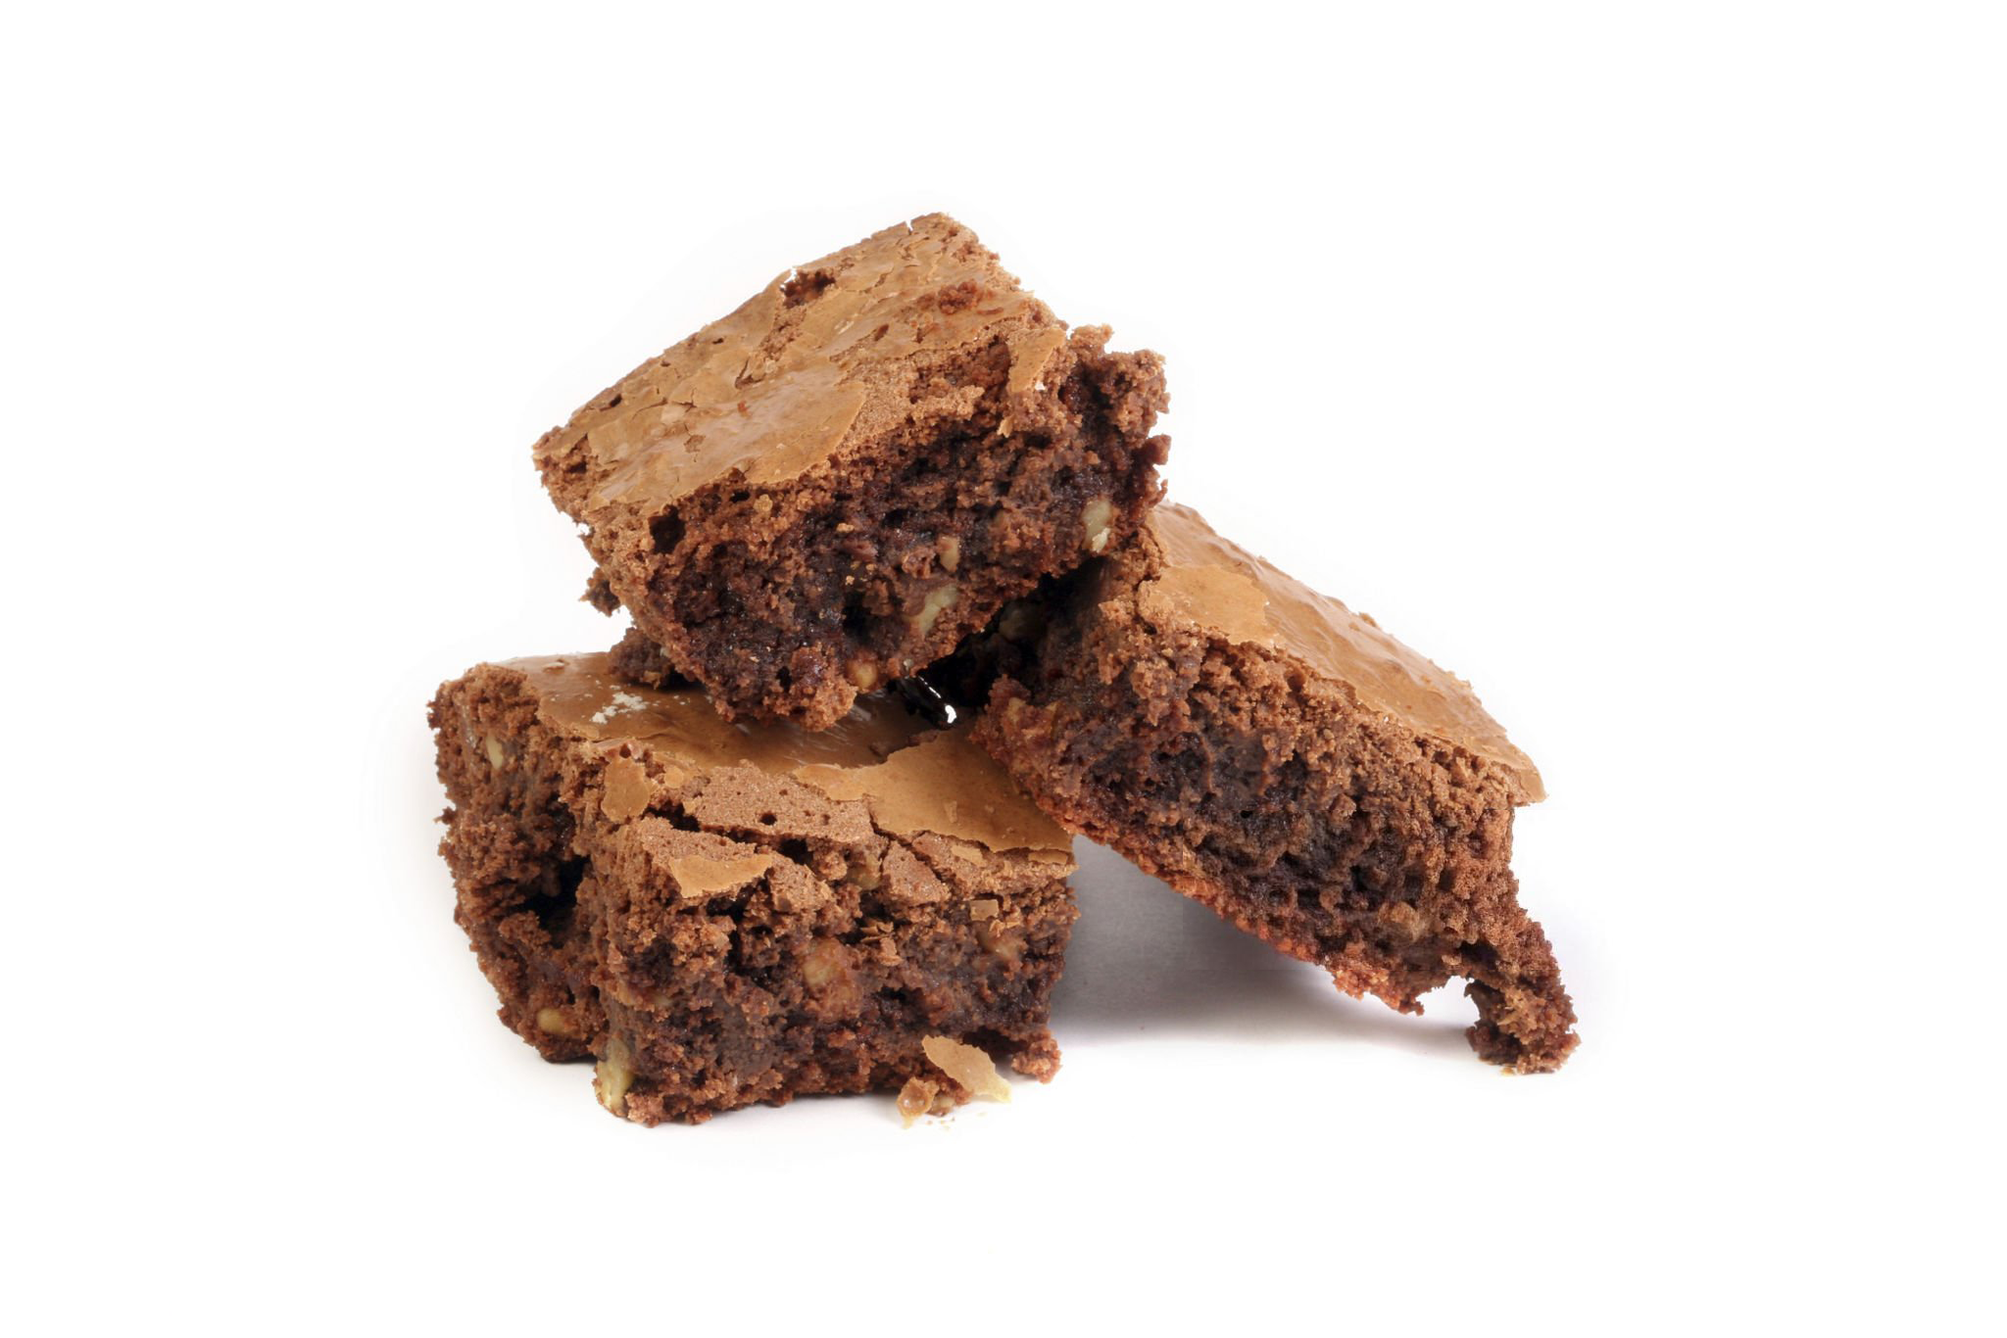
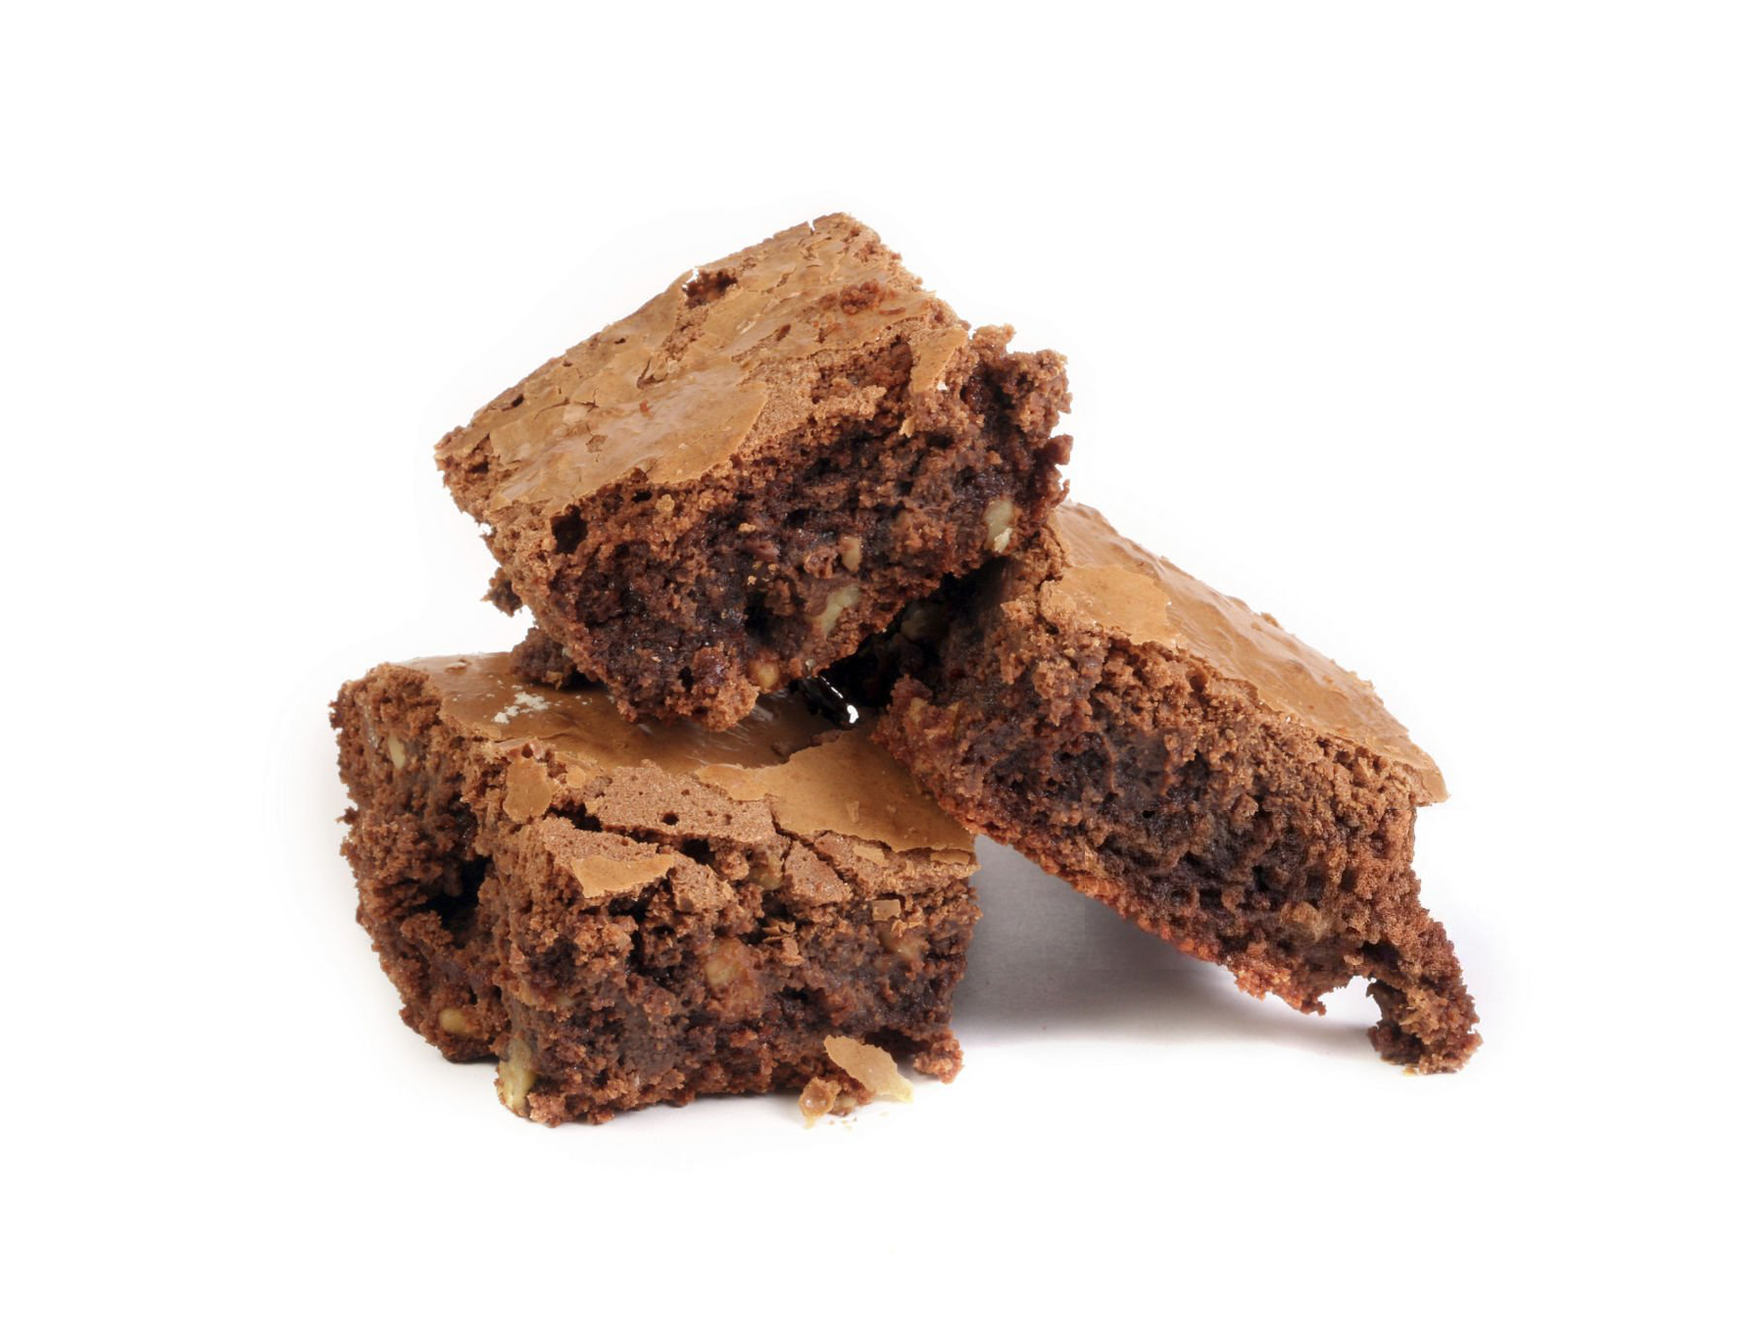
Updated  files

Changed region(s): [[0.1867, 0.1537, 0.84, 0.8609]]

diff --git a/brownies.html b/brownies.html
@@ -6,13 +6,13 @@
       <meta charset="utf-8" />
       <meta content="width=device-width, initial-scale=1.0" name="viewport" />
       <title>Brownies | Bumonii's Baking &amp; Chocolates</title>
-      <meta content="Rich chocolate brownies with fudgy centres, glossy tops and premium handmade finish for gifting, events and dessert counters. Contact Bumoniis on WhatsApp for details and pricing."
+      <meta content="Delicious, moist brownies with rich chocolate flavour and a fudgy centre. Contact Bumoniis on WhatsApp for details and pricing."
             name="description" />
       <meta content="Brownies — Bumoniis Baking &amp; Chocolates" property="og:title" />
-      <meta content="Rich chocolate brownies with fudgy centres, glossy tops and premium handmade finish for gifting, events and dessert counters."
+      <meta content="Delicious, moist brownies with rich chocolate flavour and a fudgy centre."
             property="og:description" />
       <meta content="website" property="og:type" />
-      <meta content="https://images.unsplash.com/photo-1606313564200-e75d5e30476c?q=80&amp;w=1800&amp;auto=format&amp;fit=crop"
+      <meta content="https://images.unsplash.com/photo-1569864358642-9d1684040f43?q=80&amp;w=1800&amp;auto=format&amp;fit=crop"
             property="og:image" />
       <link href="style.css" rel="stylesheet" />
       <link href="https://fonts.googleapis.com" rel="preconnect" />
@@ -290,7 +290,7 @@
                         <div class="types-grid" id="types">
                               <article class="type-card">
                                     <img alt="Brownies" class="brownies-fit-image" decoding="async" loading="eager"
-                                          src="sujjth/final pics/inside ppics/classic brownies.png" />
+                                          src="sujjth/final pics/classic browines.png" />
                                     <div class="type-card-body">
                                           <h3>Classic Brownies</h3>
                                           <p>Classic brownies are soft and moist, delivering a deep chocolate flavour
@@ -414,12 +414,12 @@
                         </div>
                         <div class="footer-contact-block">
                                 <h3>Contact Us</h3>
-                                <p>Ullaaya Brothers Foods Pvt Ltd No.345, 1st cross, 4th Main, Indiranagar,
+                                <h4>Ullaaya Brothers Foods Pvt Ltd No.345, 1st cross, 4th Main, Indiranagar,
                                         Bangalore–560075
-                                </p>
-                                <a class="footer-phone" href="tel:080-42046781"><p>📞-080-42046781,+91-9886916067</p></a>
+                                </h4>
+                                <a class="footer-phone" href="tel:080-42046781"><h4>📞080-42046781,+91-9886916067<h4></a>
                                <a href="mailto:contact@ullaayafoods.com">
-                             <i class="fa-solid fa-envelope"></i>  -  contact@ullaaya.com
+                             <i class="fa-solid fa-envelope"></i>   contact@ullaaya.com
 </a>
                         </div>
                 </div>

diff --git a/style.css b/style.css
@@ -497,7 +497,7 @@ ul {
 
 .section-header {
   max-width: 800px;
-  margin: 0 auto 0.30rem;
+  margin: 0 auto;
   text-align: center;
 }
 
@@ -506,6 +506,7 @@ ul {
   font-family: var(--font-heading);
   font-size: clamp(1.5rem, 3vw, 1.5rem);
   line-height: 1.30;
+  margin-bottom: 5px;
 }
 
 .section-subtitle {
@@ -1591,6 +1592,7 @@ ul {
   justify-content: flex-start !important;
   align-items: flex-start !important;
   margin: 0 0 8px 0 !important;
+  margin-left: 26px !important;
 }
 
 .footer-logo-left img {
@@ -2685,10 +2687,9 @@ main p,
 }
 
 .center{
-  font-size: 1.27rem!important;
-  line-height: 1.4!important;
+  font-size: 1.1rem!important;
+  line-height: 1.10!important;
   text-align: center !important;
-  margin: 15px auto !important;
 }
 body p,
 .section-subtitle,
@@ -2701,8 +2702,9 @@ body p,
 .footer-brand-block p,
 .business-card-content p,
 .other-business-card p {
-  font-size: 1.21rem !important;
+  font-size: 1.28rem !important;
   line-height: 1.5 !important;
+  margin-bottom: 1.2rem !important;
 }
 
 .business-card-content p,
@@ -3107,21 +3109,31 @@ nav[aria-label="Breadcrumb"] {
   .footer-contact-block a,
   .footer-phone,
   .footer-wa {
-    font-size: 0.95rem !important;
+    font-size: 1.07rem !important;
     line-height: 1.6 !important;
   }
 }
 
 /* === FINAL FOOTER COLOR + BUSINESS BUTTON ALIGNMENT FIX === */
-.site-footer .footer-brand-title,
+.site-footer .footer-brand-title{
+    color: #4b2208 !important;
+  font-family: var(--font-ui) !important;
+  font-size: 1.1rem !important;
+  font-weight: 800 !important;
+  letter-spacing: 0.03em !important;
+  text-transform: none !important;
+  margin-left: 30px !important;
+}
+
 .site-footer .footer-link-block h3,
 .site-footer .footer-contact-block h3 {
   color: #4b2208 !important;
   font-family: var(--font-ui) !important;
-  font-size: 1.10rem !important;
+  font-size: 1.1rem !important;
   font-weight: 800 !important;
-  letter-spacing: 0.06em !important;
+  letter-spacing: 0.03em !important;
   text-transform: none !important;
+  
 }
 
 .site-footer .footer-link-block a,
@@ -3854,6 +3866,8 @@ nav[aria-label="Breadcrumb"] {
 .other-business-card.osuns-card .business-card-content .business-link,
 .other-business-card.sarvathaa-card .business-card-content .business-link {
   text-align: justify !important;
+  hyphens: auto !important;
+  overflow-wrap: break-word !important;
 }
 
 /* =========================================================
@@ -4372,7 +4386,7 @@ nav[aria-label="Breadcrumb"] {
    ========================================================= */
 .types-grid .type-card-body p,
 .chocolate-subproducts-page .types-grid .type-card-body p {
-  font-size: 1.00rem !important;
+  font-size: 1.10rem !important;
   line-height: 1.58 !important;
 }
 
@@ -4809,7 +4823,7 @@ nav[aria-label="Breadcrumb"] {
 #hero p {
   max-width: 400px !important;
   margin: 17px 0 24px !important;
-  font-size: .98rem !important;
+  font-size: 1.10rem !important;
   line-height: 1.68 !important;
 }
 #hero .hero-actions .btn {

diff --git a/index.html b/index.html
@@ -514,7 +514,7 @@
                                                          <h3>Osuns's</h3>
                                                         <p>
                                                                 Every successful business begins with the right
-                                                                guidance. With expertguidance strategic planning setup to training operations growth and ongoing support. we help entrepreneurs build businesses with
+                                                                guidance. With expert guidance strategic planning setup to training operations growth and ongoing support. we help entrepreneurs build businesses with
                                                                 confidence and lasting success.
                                                         </p>
                                                         <a class="business-link" href="https://www.osunss.com"
@@ -572,14 +572,15 @@
                                         <li><a href="desserts.html">Desserts</a></li>
                                 </ul>
                         </div>
-                        <div class="footer-contact-block">
+                         <div class="footer-contact-block">
                                 <h3>Contact Us</h3>
-                                <p>Ullaaya Brothers Foods Pvt Ltd No.345, 1st cross, 4th Main, Indiranagar,
+                                <h4>Ullaaya Brothers Foods Pvt Ltd No.345, 1st cross, 4th Main, Indiranagar,
                                         Bangalore–560075
-                                </p>
-                                <a class="footer-phone" href="tel:080-42046781"><p>📞-080-42046781,+91-9886916067</p></a>
-                               <a href="mailto:contact@ullaayafoods.com">
-                             <i class="fa-solid fa-envelope"></i>  -  contact@ullaaya.com
+                                </h4>
+                                <a class="footer-phone" href="tel:080-42046781"><h4>📞080-42046781,+91-9886916067</h4></a>
+                               
+                                <a href="mailto:contact@ullaayafoods.com">
+                             <i class="fa-solid fa-envelope"></i>    contact@ullaaya.com
 </a>
                         </div>
                 </div>

diff --git a/cookies.html b/cookies.html
@@ -286,7 +286,7 @@
                              
                             <span class="eyebrow" class="section-title">Cookies</span>
                         </div><p class="center">
-                                              Perfected in France, macarons are delicate almond meringue cookies with smooth, flavorful fillings, celebrated for their light texture and elegant presentation.
+                                             Believed to have originated in 7th-century Persia, cookies are one of the world's oldest baked treats, cherished for their delightful texture, rich flavors, and timeless appeal.
                                         </p>
                         </div>
                         <div class="types-grid" id="types">
@@ -424,14 +424,14 @@
                                         <li><a href="desserts.html">Desserts</a></li>
                                 </ul>
                         </div>
-                        <div class="footer-contact-block">
+                         <div class="footer-contact-block">
                                 <h3>Contact Us</h3>
-                                <p>Ullaaya Brothers Foods Pvt Ltd No.345, 1st cross, 4th Main, Indiranagar,
+                                <h4>Ullaaya Brothers Foods Pvt Ltd No.345, 1st cross, 4th Main, Indiranagar,
                                         Bangalore–560075
-                                </p>
-                                <a class="footer-phone" href="tel:080-42046781"><p>📞-080-42046781,+91-9886916067</p></a>
+                                </h4>
+                                <a class="footer-phone" href="tel:080-42046781"><h4>📞080-42046781,+91-9886916067</h4></a>
                                <a href="mailto:contact@ullaayafoods.com">
-                             <i class="fa-solid fa-envelope"></i>  -  contact@ullaaya.com
+                             <i class="fa-solid fa-envelope"></i>   contact@ullaaya.com
 </a>
                         </div>
                 </div>

diff --git a/cakes.html b/cakes.html
@@ -444,14 +444,14 @@
                                         <li><a href="desserts.html">Desserts</a></li>
                                 </ul>
                         </div>
-                        <div class="footer-contact-block">
+                         <div class="footer-contact-block">
                                 <h3>Contact Us</h3>
-                                <p>Ullaaya Brothers Foods Pvt Ltd No.345, 1st cross, 4th Main, Indiranagar,
+                                <h4>Ullaaya Brothers Foods Pvt Ltd No.345, 1st cross, 4th Main, Indiranagar,
                                         Bangalore–560075
-                                </p>
-                                <a class="footer-phone" href="tel:080-42046781"><p>📞-080-42046781,+91-9886916067</p></a>
+                                </h4>
+                                <a class="footer-phone" href="tel:080-42046781"><h4>📞080-42046781,+91-9886916067</h4></a>
                                <a href="mailto:contact@ullaayafoods.com">
-                             <i class="fa-solid fa-envelope"></i>  -  contact@ullaaya.com
+                             <i class="fa-solid fa-envelope"></i>   contact@ullaaya.com
 </a>
                         </div>
                 </div>

diff --git a/choconut-filled-bars.html b/choconut-filled-bars.html
@@ -424,14 +424,14 @@
                                         <li><a href="desserts.html">Desserts</a></li>
                                 </ul>
                         </div>
-                        <div class="footer-contact-block">
+                         <div class="footer-contact-block">
                                 <h3>Contact Us</h3>
-                                <p>Ullaaya Brothers Foods Pvt Ltd No.345, 1st cross, 4th Main, Indiranagar,
+                                <h4>Ullaaya Brothers Foods Pvt Ltd No.345, 1st cross, 4th Main, Indiranagar,
                                         Bangalore–560075
-                                </p>
-                                <a class="footer-phone" href="tel:080-42046781"><p>📞-080-42046781,+91-9886916067</p></a>
+                                </h4>
+                                <a class="footer-phone" href="tel:080-42046781"><h4>📞080-42046781,+91-9886916067</h4></a>
                                <a href="mailto:contact@ullaayafoods.com">
-                             <i class="fa-solid fa-envelope"></i>  -  contact@ullaaya.com
+                             <i class="fa-solid fa-envelope"></i>   contact@ullaaya.com
 </a>
                         </div>
                 </div>

diff --git a/desserts.html b/desserts.html
@@ -437,12 +437,12 @@ From timeless classics to modern creations, desserts are crafted to delight with
                         </div>
                         <div class="footer-contact-block">
                                 <h3>Contact Us</h3>
-                                <p>Ullaaya Brothers Foods Pvt Ltd No.345, 1st cross, 4th Main, Indiranagar,
+                                <h4>Ullaaya Brothers Foods Pvt Ltd No.345, 1st cross, 4th Main, Indiranagar,
                                         Bangalore–560075
-                                </p>
-                                <a class="footer-phone" href="tel:080-42046781"><p>📞-080-42046781,+91-9886916067</p></a>
+                                </h4>
+                                <a class="footer-phone" href="tel:080-42046781"><h4>📞080-42046781,+91-9886916067</h4></a>
                                <a href="mailto:contact@ullaayafoods.com">
-                             <i class="fa-solid fa-envelope"></i>  -  contact@ullaaya.com
+                             <i class="fa-solid fa-envelope"></i>   contact@ullaaya.com
 </a>
                         </div>
                 </div>

diff --git a/chocolate-clusters.html b/chocolate-clusters.html
@@ -444,12 +444,12 @@
                         </div>
                         <div class="footer-contact-block">
                                 <h3>Contact Us</h3>
-                                <p>Ullaaya Brothers Foods Pvt Ltd No.345, 1st cross, 4th Main, Indiranagar,
+                                <h4>Ullaaya Brothers Foods Pvt Ltd No.345, 1st cross, 4th Main, Indiranagar,
                                         Bangalore–560075
-                                </p>
-                                <a class="footer-phone" href="tel:080-42046781"><p>📞-080-42046781,+91-9886916067</p></a>
-                               <a href="mailto:info@ullaayafoods.com">
-                             <i class="fa-solid fa-envelope"></i>  -  contact@ullaaya.com
+                                </h4>
+                                <a class="footer-phone" href="tel:080-42046781"><h4>📞080-42046781,+91-9886916067</h4></a>
+                               <a href="mailto:contact@ullaayafoods.com">
+                             <i class="fa-solid fa-envelope"></i>   contact@ullaaya.com
 </a>
                         </div>
                 </div>

diff --git a/fudge-caramels-toffees.html b/fudge-caramels-toffees.html
@@ -452,12 +452,12 @@
                         </div>
                         <div class="footer-contact-block">
                                 <h3>Contact Us</h3>
-                                <p>Ullaaya Brothers Foods Pvt Ltd No.345, 1st cross, 4th Main, Indiranagar,
+                                <h4>Ullaaya Brothers Foods Pvt Ltd No.345, 1st cross, 4th Main, Indiranagar,
                                         Bangalore–560075
-                                </p>
-                                <a class="footer-phone" href="tel:080-42046781"><p>📞-080-42046781,+91-9886916067</p></a>
+                                </h4>
+                                <a class="footer-phone" href="tel:080-42046781"><h4>📞080-42046781,+91-9886916067</h4></a>
                                <a href="mailto:contact@ullaayafoods.com">
-                             <i class="fa-solid fa-envelope"></i>  -  contact@ullaaya.com
+                             <i class="fa-solid fa-envelope"></i>   contact@ullaaya.com
 </a>
                         </div>
                 </div>

diff --git a/macaroons.html b/macaroons.html
@@ -442,12 +442,12 @@
                         </div>
                         <div class="footer-contact-block">
                                 <h3>Contact Us</h3>
-                                <p>Ullaaya Brothers Foods Pvt Ltd No.345, 1st cross, 4th Main, Indiranagar,
+                                <h4>Ullaaya Brothers Foods Pvt Ltd No.345, 1st cross, 4th Main, Indiranagar,
                                         Bangalore–560075
-                                </p>
-                                <a class="footer-phone" href="tel:080-42046781"><p>📞-080-42046781,+91-9886916067</p></a>
+                                </h4>
+                                <a class="footer-phone" href="tel:080-42046781"><h4>📞080-42046781,+91-9886916067</h4></a>
                                <a href="mailto:contact@ullaayafoods.com">
-                             <i class="fa-solid fa-envelope"></i>  -  contact@ullaaya.com
+                             <i class="fa-solid fa-envelope"></i>   contact@ullaaya.com
 </a>
                         </div>
                 </div>

diff --git a/truffles-pralines.html b/truffles-pralines.html
@@ -448,12 +448,12 @@
                         </div>
                         <div class="footer-contact-block">
                                 <h3>Contact Us</h3>
-                                <p>Ullaaya Brothers Foods Pvt Ltd No.345, 1st cross, 4th Main, Indiranagar,
+                                <h4>Ullaaya Brothers Foods Pvt Ltd No.345, 1st cross, 4th Main, Indiranagar,
                                         Bangalore–560075
-                                </p>
-                                <a class="footer-phone" href="tel:080-42046781"><p>📞-080-42046781,+91-9886916067</p></a>
+                                </h4>
+                                <a class="footer-phone" href="tel:080-42046781"><h4>📞080-42046781,+91-9886916067</h4></a>
                                <a href="mailto:contact@ullaayafoods.com">
-                             <i class="fa-solid fa-envelope"></i>  -  contact@ullaaya.com
+                             <i class="fa-solid fa-envelope"></i>   contact@ullaaya.com
 </a>
                         </div>
                 </div>
